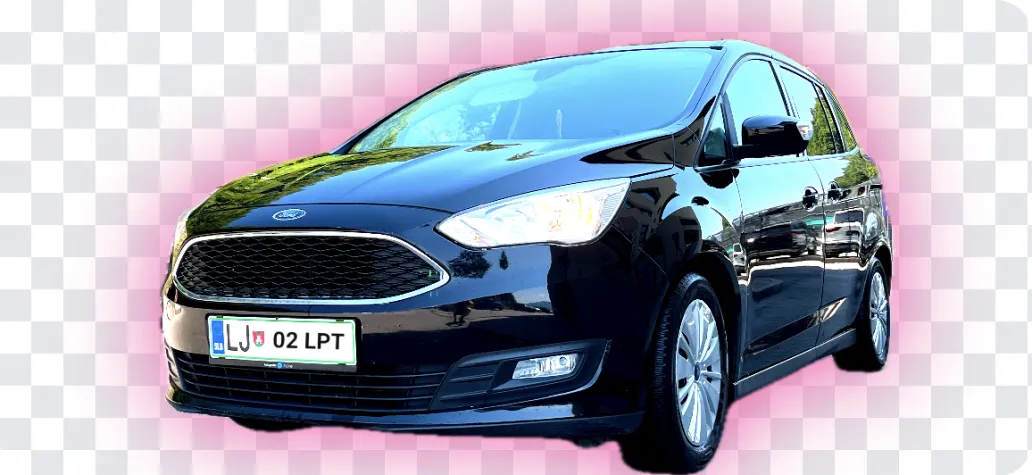
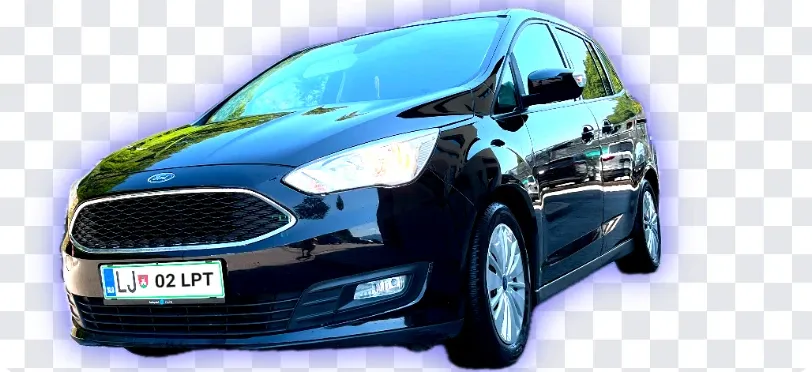
Pic Edit: posnetek Po z enakim zarkom kot v Lazy Pro Trip

diff --git a/de/pic-edit/index.html b/de/pic-edit/index.html
@@ -136,7 +136,7 @@
         </div>
         <div>
           <div class="wide">
-            <img src="/assets/img/shots/77-picedit-po.webp" alt="Dasselbe Auto freigestellt, mit pinkem Leuchten und dem Ersatzkennzeichen LJ 02 LPT, im Rahmen 1560 × 720" width="1032" height="475" loading="lazy">
+            <img src="/assets/img/shots/77-picedit-po.webp" alt="Dasselbe Auto freigestellt, mit violettem Leuchten und dem Ersatzkennzeichen LJ 02 LPT, im Rahmen 1560 × 720" width="812" height="372" loading="lazy">
           </div>
           <p class="caption caption-l">Nachher — freigestellt, beleuchtet, Ersatzkennzeichen</p>
         </div>

diff --git a/sl/pic-edit/index.html b/sl/pic-edit/index.html
@@ -132,7 +132,7 @@
         </div>
         <div>
           <div class="wide">
-            <img src="/assets/img/shots/77-picedit-po.webp" alt="Isti avto, izrezan, z rožnatim žarkom in prekrivno tablico LJ 02 LPT, v okvirju 1560 × 720" width="1032" height="475" loading="lazy">
+            <img src="/assets/img/shots/77-picedit-po.webp" alt="Isti avto, izrezan, z vijoličnim žarkom in prekrivno tablico LJ 02 LPT, v okvirju 1560 × 720" width="812" height="372" loading="lazy">
           </div>
           <p class="caption caption-l">Po — izrezan, osvetljen, prekrivna tablica</p>
         </div>

diff --git a/pic-edit/index.html b/pic-edit/index.html
@@ -133,7 +133,7 @@
         </div>
         <div>
           <div class="wide">
-            <img src="/assets/img/shots/77-picedit-po.webp" alt="The same car cut out, with a pink glow and a cover plate LJ 02 LPT, in the 1560 × 720 frame" width="1032" height="475" loading="lazy">
+            <img src="/assets/img/shots/77-picedit-po.webp" alt="The same car cut out, with a violet glow and a cover plate LJ 02 LPT, in the 1560 × 720 frame" width="812" height="372" loading="lazy">
           </div>
           <p class="caption caption-l">After — cut out, lit, cover plate</p>
         </div>

diff --git a/README.md b/README.md
@@ -143,7 +143,7 @@ v avtu so fotografije). Pretvorjeni s `cwebp -q 80` (`brew install webp`; `sips`
 | `68` EN, `69` SL, `70` DE | `IMG_0385`, `0401`, `0396` | živa aktivnost v CarPlay |
 | `71` EN, `72` SL, `73` DE | `IMG_0404`, `0417`, `0409` | Android Auto med potjo |
 | `74` EN | `IMG_0426` | seznam vozil (`LJ 01 LPT`, `LJ 02 LPT`) |
-| `76`, `77` | `IMG_0471`, `0473` (mapa `LPT pic screen shot`) | Pic Edit na iPhonu, izrez platna: pred (ozadje, zabrisana tablica) / po (izrezan, rožnat žarek, prekrivna tablica `LJ 02 LPT`) — v razdelku 01 vseh treh `pic-edit/` |
+| `76`, `77` | `IMG_0471`, `0473` (mapa `LPT pic screen shot`) | Pic Edit na iPhonu, izrez platna: pred (ozadje, zabrisana tablica) / po (izrezan, vijoličen žarek kot v `78`, prekrivna tablica `LJ 02 LPT`; posnetek iz klepeta 11. 10.) — v razdelku 01 vseh treh `pic-edit/` |
 | `78` | posnetek iz klepeta 11. 10. (iPhone, EN) | isti Ford v Lazy Pro Trip: nadzorna plošča z modrim žarkom, `LJ 02 LPT` — ob paru Pred / Po |
 
 Tablica na fotografiji avta je v aplikaciji že zakrita (vidi se le `LJ`). **Zavrnjen:**
